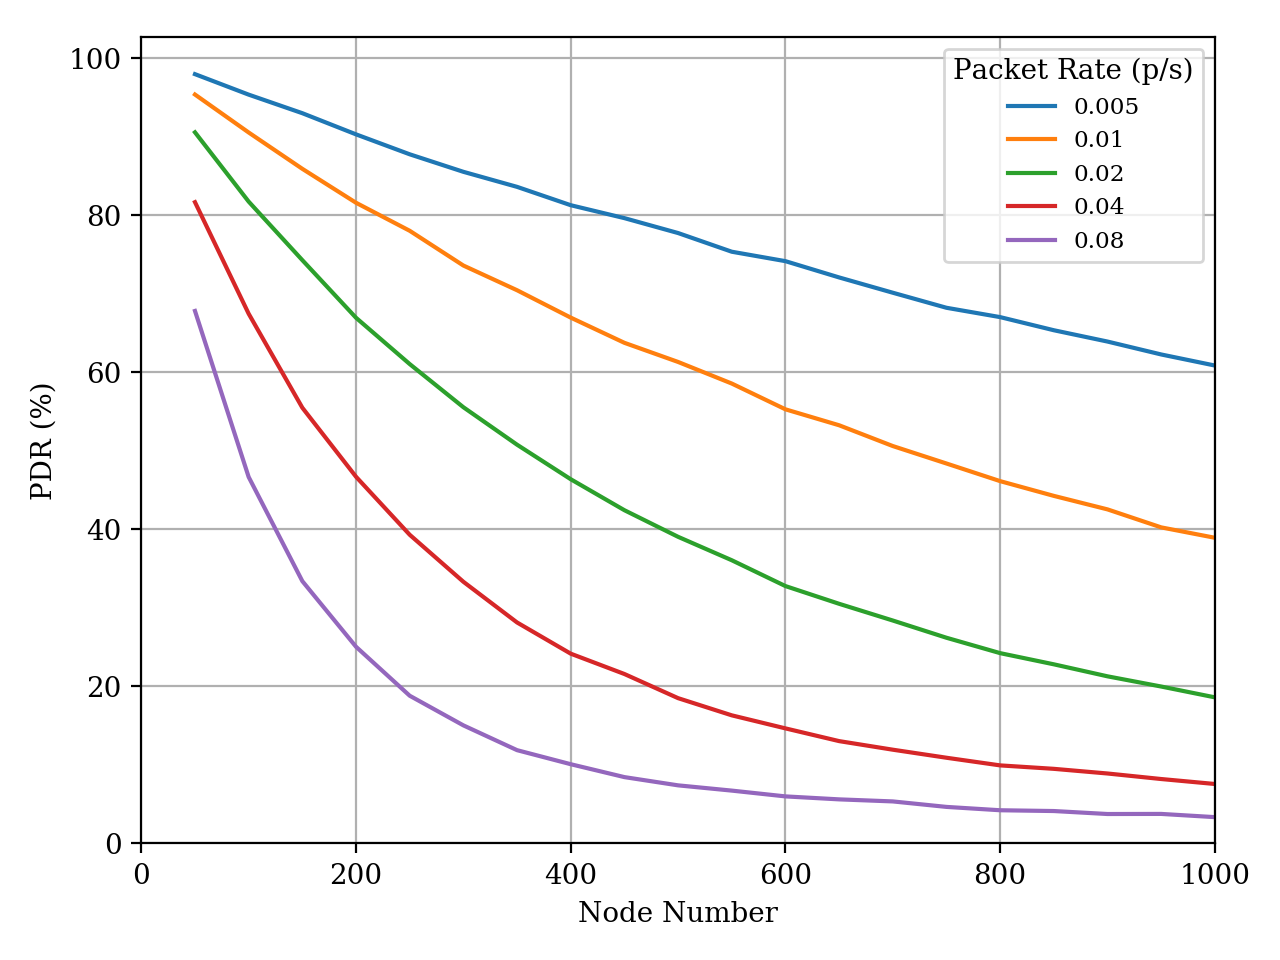
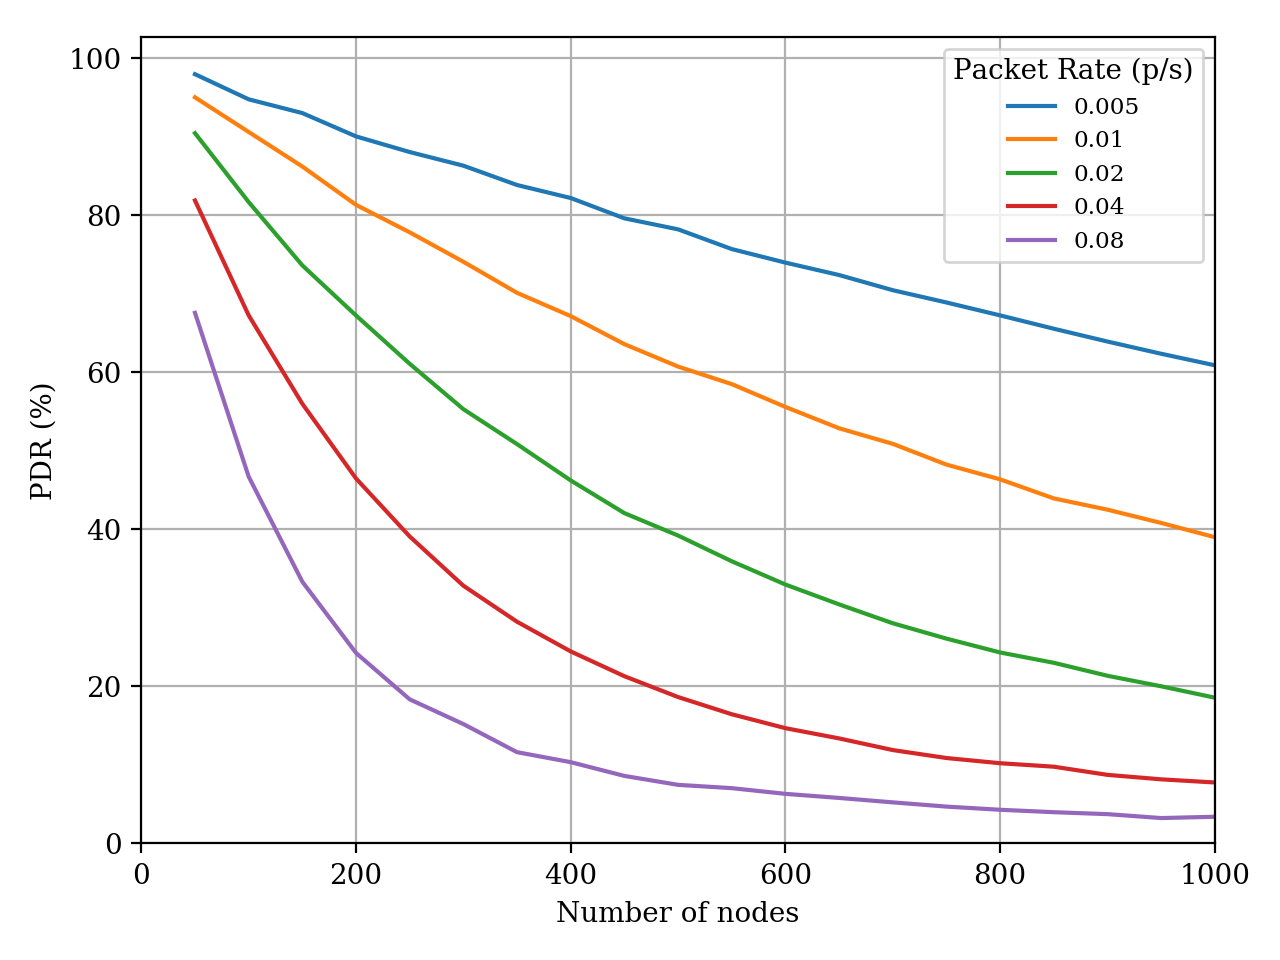
pdr figures updated

diff --git a/paper.tex b/paper.tex
@@ -78,7 +78,7 @@ Where, SF is spreading factor $SF \in \{7,..,12\}$, CR is error correction code 
 
 \par Initially, a node is not aware of how far it is from a GW. However, a node can guess how far away from the gateway by observing received signal power of a downlink transmission. If a downlink transmission received signal power is too high then node can decrease its next transmission SF or transmit power to decrease power consumption. Also GW can request from a node to decrease node's SF or transmit power. This SF assignment method is called lowest possible SF assignment scheme for the rest of the paper.
 
-\par In Figure \ref{fig:collision}, a LoRaWAN network distributed around a single GW is illustrated. Different color rings represent achievable range of different SF from GW and different color circles represent nodes with selected SF. Most of the end devices which close to the GW will fall into lowest SF (SF7) area section. End devices which close to the GW will probably select lowest SF all the time. Which results a lot of collisions between same SF transmissions. Collision number increases while end device number close to the GW increases.
+\par In Figure \ref{fig:collision}, a LoRaWAN network distributed around a single GW is illustrated. Different color rings represent achievable range of different SF from GW and different color circles represent nodes with selected SF. Most of the end devices which close to the GW will fall into lowest SF (SF7) area section. End devices which close to the GW will probably select lowest SF all the time. Which results a lot of collisions between same SF transmissions. Collision number increases while number of end devices close to the GW increases.
 
 \begin{figure}
 \centering
@@ -126,7 +126,7 @@ authors proposed a link measurement and a link performance model for LoRa. The a
 
 
 \section{Simulation Environment and Results} \label{Simulation Environment and Results}
-\par A discrete event simulator is implemented in Python to study LoRa network performance considering SF orthogonality. The LoRaWAN SF simulation tool is publicly available at https://github.com/tugrulyatagan/simlorafs. Simulation tool supports custom LoRaWAN topologies as well as randomly generated LoRaWAN topologies. Simulator can generate uniformly distributed random topology with node number and gateway number input. Global simulation parameters are simulation duration (s), packet size (B), packet generation rate (p/s) and spreading factor assignment method. With these input, tool provide outputs of total generated packet number, successfully received packet number, interfered packet number, under sensitivity packet number, network packet delivery ratio (PDR), network throughput and total transmit energy consumption.
+\par A discrete event simulator is implemented in Python to study LoRa network performance considering SF orthogonality. The LoRaWAN SF simulation tool is publicly available at https://github.com/tugrulyatagan/simlorafs. Simulation tool supports custom LoRaWAN topologies as well as randomly generated LoRaWAN topologies. Simulator can generate uniformly distributed random topology with number of nodes and number of gateways input. Global simulation parameters are simulation duration (s), packet size (B), packet generation rate (p/s) and spreading factor assignment method. With these input, the simulator provide outputs of total number of generated packets, number of successfully received packet, number of interfered packets, number of under sensitivity packets, network packet delivery ratio percentage (PDR), network throughput (bps) and total transmit energy consumption (J).
 
 \subsection{Link Model}
 \par Link quality of a wireless system can be expressed by the metric of link budget. Link budget is a measure of all gains and losses from transmitter to receiver. Link budget of a wireless link can be calculated as \cite{AN1200.22}:
@@ -135,7 +135,7 @@ authors proposed a link measurement and a link performance model for LoRa. The a
 P^{dBm}_{RX} = P^{dBm}_{TX} + G^{dB}_{SYS} - L^{dB}_{SYS} - L^{dB}_{PATH}
 \end{equation}
 
-\par Where, $P^{dBm}_{RX}$ is the expected receive power at the receiver. $P^{dBm}_{TX}$ is the transmit power of the transmitter. $G^{dB}_{SYS}$ is the system gains such as transmitter and receiver antenna gains. $L^{dB}_{SYS}$ is the system losses such as transmitter and receiver line, circuit, antenna losses. $L^{dB}_{PATH}$ is the propagation path loss between transmitter and receiver antennas in open space. In our simulation we assume that total of system gains $G^{dB}_{SYS}$ and system losses $L^{dB}_{SYS}$ is +7 dBm.
+\par Where, $P^{dBm}_{RX}$ is the expected receive power at the receiver. $P^{dBm}_{TX}$ is the transmit power of the transmitter. $G^{dB}_{SYS}$ is the system gains such as transmitter and receiver antenna gains. $L^{dB}_{SYS}$ is the system losses such as transmitter and receiver line, circuit, antenna losses. $L^{dB}_{PATH}$ is the propagation path loss between transmitter and receiver antennas in open space. In our simulation we assume that total of system gains $G^{dB}_{SYS}$ and system losses $L^{dB}_{SYS}$ is +7 dB.
 
 \begin{table}
 \centering
@@ -188,7 +188,9 @@ P^{dB}_{PATH} = 120.5 + 37.6 {\log_{10} R|_{km}}
 \par If the received signal power is higher than the gateway sensitivity, then signal can be decoded by the receiver successfully when there is no interfering transmission at the transmission period.
 
 \subsection{Interference Model}
-\par We invite readers to refer to \cite{7996384}
+\par We have adopted the interference model described in \cite{7996384} to our simulator. They introduced SINR threshold matrix for modeling LoRa interference between simultaneous but different SF LoRa transmissions.
+
+\par We assume that there is no other technology interference is present in the network except LoRa interference. To exploit imperfect orthogonality of different SF transmission, we need to calculate the effect of different SF transmissions to each other. We used signal to interference plus noise ratio (SINR) threshold matrix \cite{goursaud:hal-01231221}:
 
 \begin{equation} \label{eq:sinr}
 T = \begin{bmatrix}
@@ -201,9 +203,13 @@ T = \begin{bmatrix}
      \end{bmatrix}
 \end{equation}
 
+\par To calculate if a referenced signal is interfered at receiver by a interferer signal, we use SINR threshold matrix. $T_{i,j}$ is the needed SINR margin in dB between referenced signal with SF = i and interferer signal with SF = j to correctly decode referenced signal. If there are more than one interferer, referenced signal must satisfy the margin for cumulative sum of all received power values for each SF \cite{7996384}.
+
 \begin{equation} \label{eq:sinr_db}
 SINR_{i,j} = \dfrac{P_{rc,0}}{\sum_{l \in I_j} P_{rc,l}}
 \end{equation}
+
+\par 
 
 \begin{equation} \label{eq:sinr_t}
 SINR_{i,j}^{dB} > T_{i,j}
@@ -215,47 +221,50 @@ SINR_{i,j}^{dB} > T_{i,j}
 t_{x}|_{s} = \dfrac{8 \times PS|_{B}}{R_{b}|_{bps}}
 \end{equation}
 
+\par TODOOOOOOOOO
+
 \begin{equation} \label{eq:p_interference}
 P_{rc,y}^{interf} = \dfrac{P_{rc,y}(t_{interf})}{t_{x}}
 \end{equation}
 
+\subsection{Simulation Results}
+\par We have been able to evaluate different 
+For simulation results in this paper, we set packet size as 60 Bytes including header and payload.
+
 \begin{figure}
 \centering
-\includegraphics[width=\linewidth]{sf_pdr_r3000_g1_p001_s3600}
+\includegraphics[width=\linewidth]{{sf_pdr_r3000_g1_p0.01_s3600}.png}
 \caption{PDR of different SFs.}
 \label{fig:sf_pdr}
 \end{figure}
 
 \begin{figure}
 \centering
-\includegraphics[width=\linewidth]{gw_pdr_r3000_p001_s3600}
-\caption{PDR of different gateway numbers.}
+\includegraphics[width=\linewidth]{{gw_pdr_r3000_p0.01_s3600}.png}
+\caption{PDR of different number of gateways.}
 \label{fig:gw_pdr}
 \end{figure}
 
 \begin{figure}
 \centering
-\includegraphics[width=\linewidth]{r_pdr_g1_p001_s3600}
+\includegraphics[width=\linewidth]{{r_pdr_g1_p0.01_s3600}.png}
 \caption{PDR of different topology radius.}
 \label{fig:r_pdr}
 \end{figure}
 
 \begin{figure}
 \centering
-\includegraphics[width=\linewidth]{pr_pdr_r3000_g1_s3600}
+\includegraphics[width=\linewidth]{{pr_pdr_r3000_g1_s3600}.png}
 \caption{PDR of different packet rates.}
 \label{fig:pr_pdr}
 \end{figure}
 
 \begin{figure}
 \centering
-\includegraphics[width=\linewidth]{predict_pdr_r5000_g3_p001_s3600}
+\includegraphics[width=\linewidth]{{predict_pdr_r5000_g3_p0.01_s3600}.png}
 \caption{PDR of different prediction SF assignment scheme.}
 \label{fig:predict_pdr}
 \end{figure}
-
-\subsection{Simulation Results}
-\par [TODO] Evaluation
 
 
 \section{Conclusion} \label{Conclusion}
